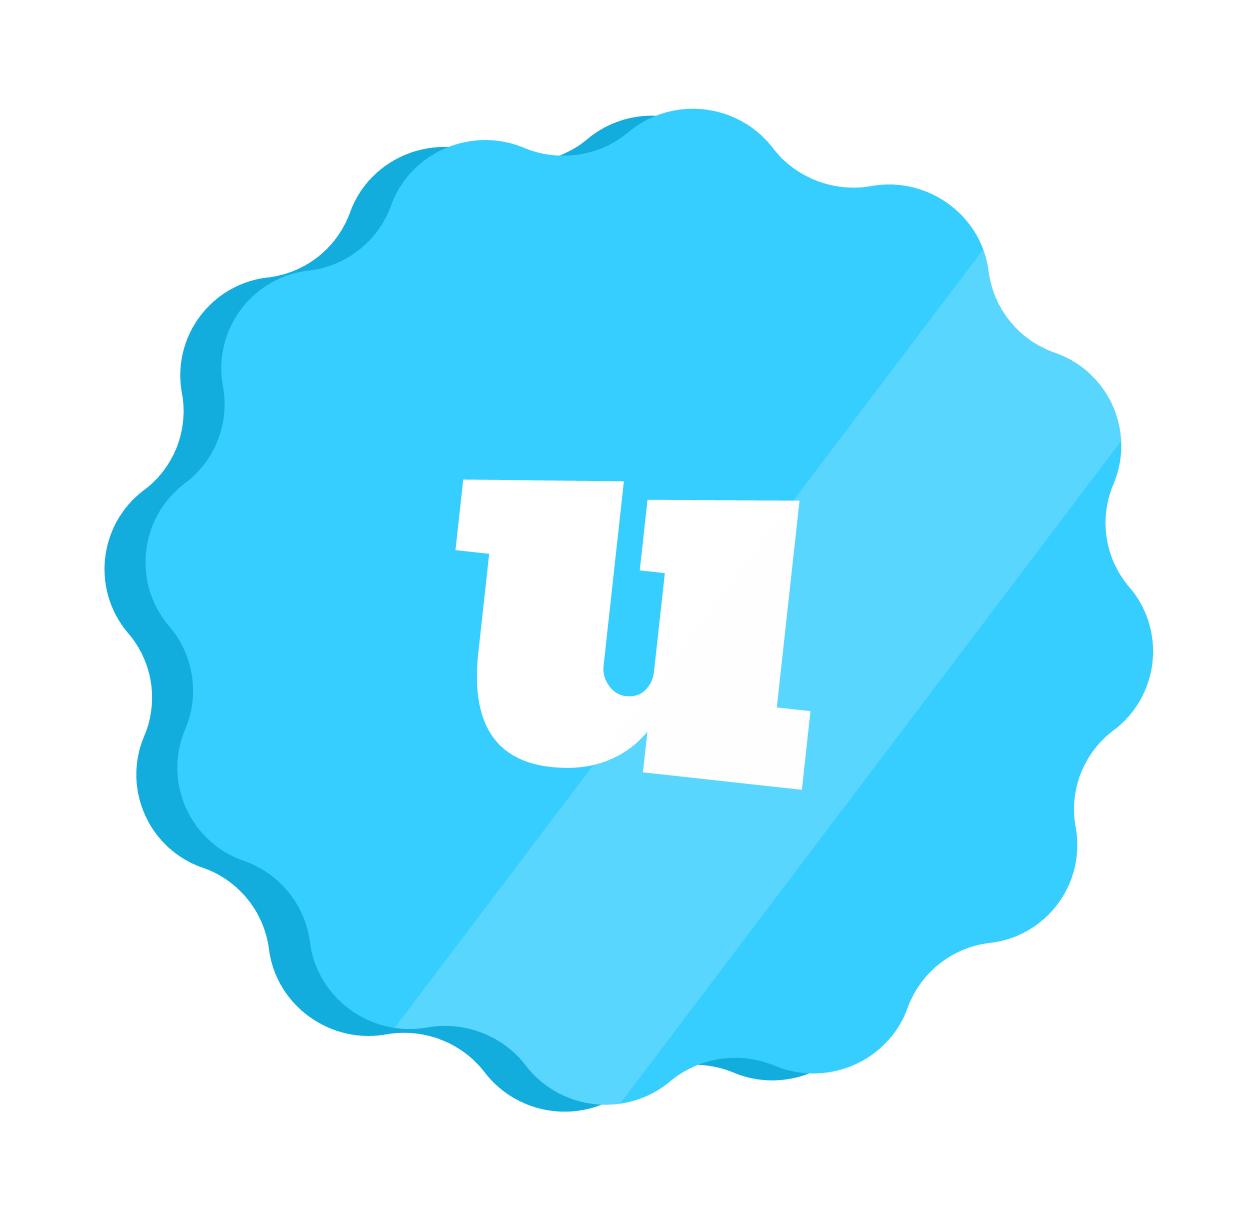
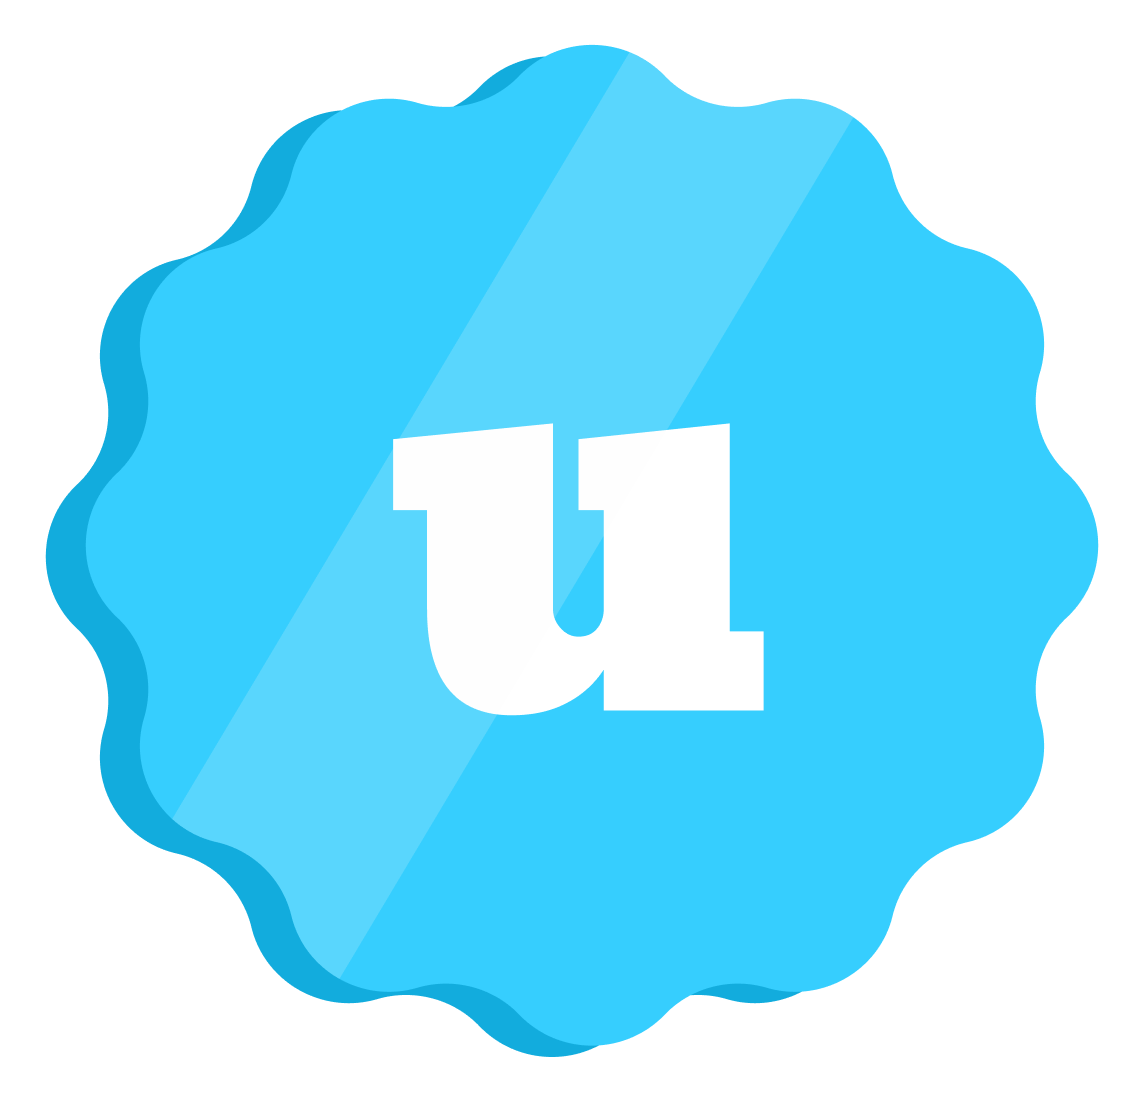
added new u badge and to mobile

diff --git a/app/(waitlist)/waitlist/page.tsx b/app/(waitlist)/waitlist/page.tsx
@@ -74,13 +74,13 @@ const Waitlist = () => {
             }}
           >
             <p className="text-muted-foreground text-xs">
-              You will be reach out only for Usourceful&apos;s launch — no
+              You will be emailed only for Usourceful&apos;s launch — no
               spamming.
             </p>
           </motion.div>
         </div>
       </header>
-      <div className="w-full h-full  gap-40 flex-1 items-center justify-center hidden lg:flex">
+      <div className="w-full  gap-2 lg:gap-20 flex-1 items-center justify-center flex">
         <motion.div
           initial={{ y: -2, opacity: 0, filter: "blur(6px)", scale: 0.2 }}
           animate={{
@@ -130,7 +130,7 @@ const Waitlist = () => {
           }}
         >
           <Image
-            src="/Waitlist/icon-purple.png"
+            src="/Waitlist/icon-pink.png"
             alt="demoImg"
             width={300}
             height={300}
@@ -155,6 +155,34 @@ const Waitlist = () => {
             duration: 0.4,
             ease: "easeOut",
             delay: 0.8,
+          }}
+        >
+          <Image
+            src="/Waitlist/icon-green.png"
+            alt="demoImg"
+            width={300}
+            height={300}
+            priority
+          />
+        </motion.div>
+        <motion.div
+          initial={{ y: -2, opacity: 0, filter: "blur(6px)", scale: 0.2 }}
+          animate={{
+            y: [0, -4, 0],
+            opacity: 1,
+            filter: "blur(0px)",
+            scale: 1,
+          }}
+          transition={{
+            y: {
+              delay: 1,
+              duration: 2,
+              repeat: Number.POSITIVE_INFINITY,
+              ease: "easeInOut",
+            },
+            duration: 0.4,
+            ease: "easeOut",
+            delay: 0.9,
           }}
         >
           <Image

diff --git a/app/(waitlist)/waitlist.css b/app/(waitlist)/waitlist.css
@@ -4,6 +4,6 @@
 
 @layer base {
   .waitlist-container {
-    @apply w-full flex flex-col items-center relative min-h-screen overflow-hidden px-6;
+    @apply w-full flex flex-col items-center relative min-h-screen overflow-hidden px-6 mb-24 md:mb-0;
   }
 }
